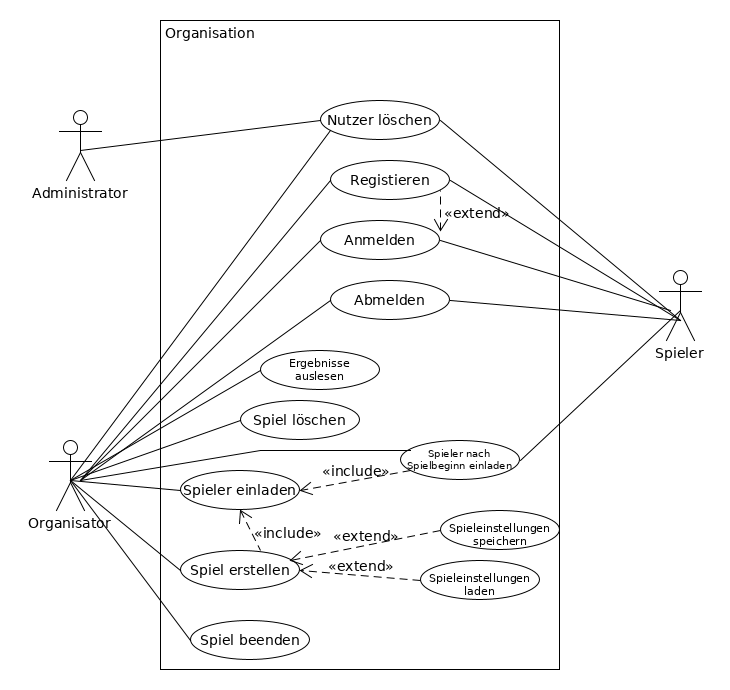
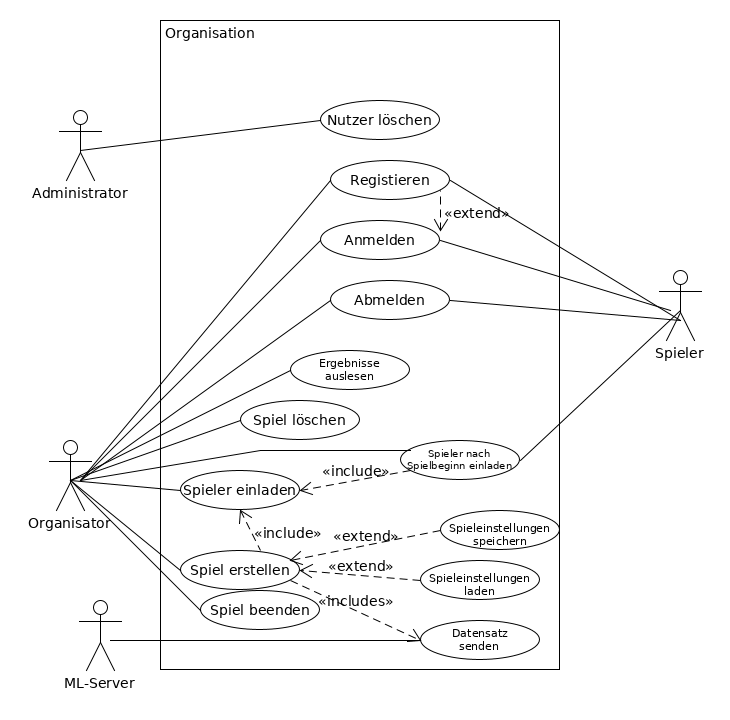
modified the uml-use case diagramms

diff --git a/pflichtenheft/pflichtenheft.tex b/pflichtenheft/pflichtenheft.tex
@@ -517,6 +517,7 @@ description={Eine Wert oder eine messbare Eigenschaft des beobachteten Sachverha
         \item \Gls{Administrator}
         \item \Gls{Organisator}
         \item \Gls{Spieler}
+        \item \Gls{ML-Server}
     \end{itemize}
     \newpage
    \subsection{Spieler registrieren}
@@ -736,6 +737,7 @@ description={Eine Wert oder eine messbare Eigenschaft des beobachteten Sachverha
     Akteure: 
     \begin{itemize}
     \item \Gls{Spieler}
+    \item \Gls{ML-Server}
     \end{itemize}
 
     \subsection{Einladung zu Spiel annehmen}
@@ -906,7 +908,13 @@ description={Eine Wert oder eine messbare Eigenschaft des beobachteten Sachverha
     \newpage
     \section{Administration}
     \includegraphics[width=\textwidth]{uml/export/Administration.png}
-
+    Akteure:
+    \begin{itemize}
+    \item \Gls{Administrator}
+    \item \Gls{Spieler}
+    \item \Gls{Organisator}
+   
+    \end{itemize}
     \subsection{Sprache ändern}
     \begin{itemize}
     \item Teilnehmende Akteure: \Gls{Spieler}, \Gls{Organisator}
